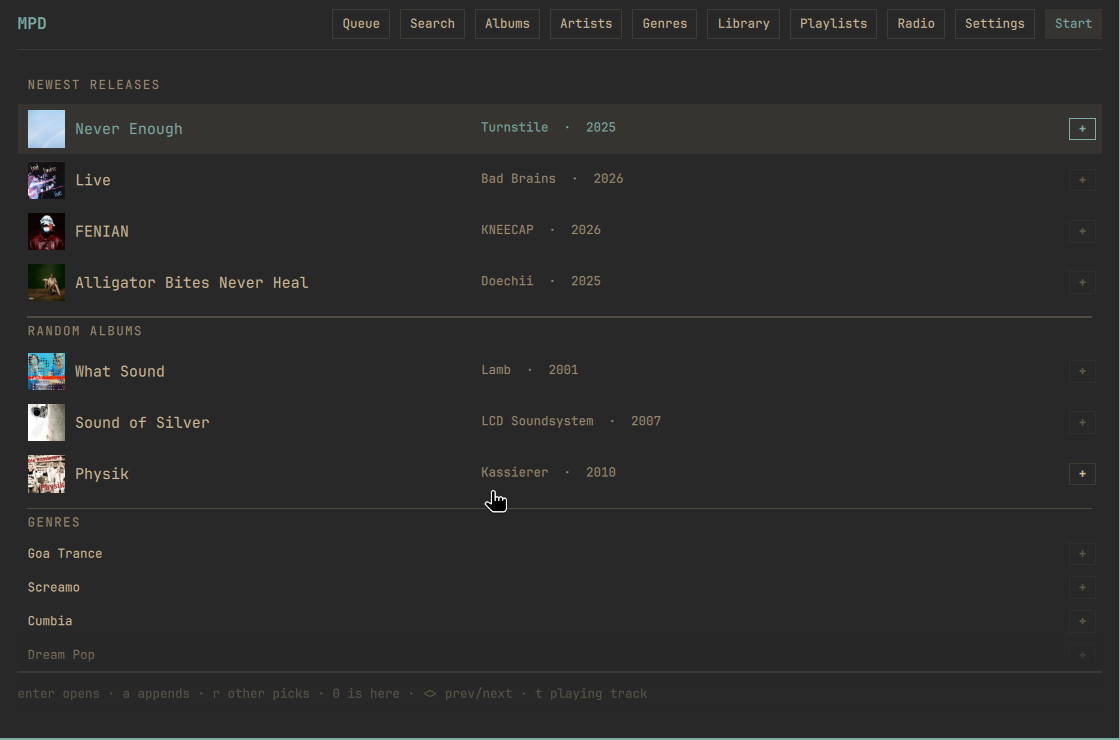
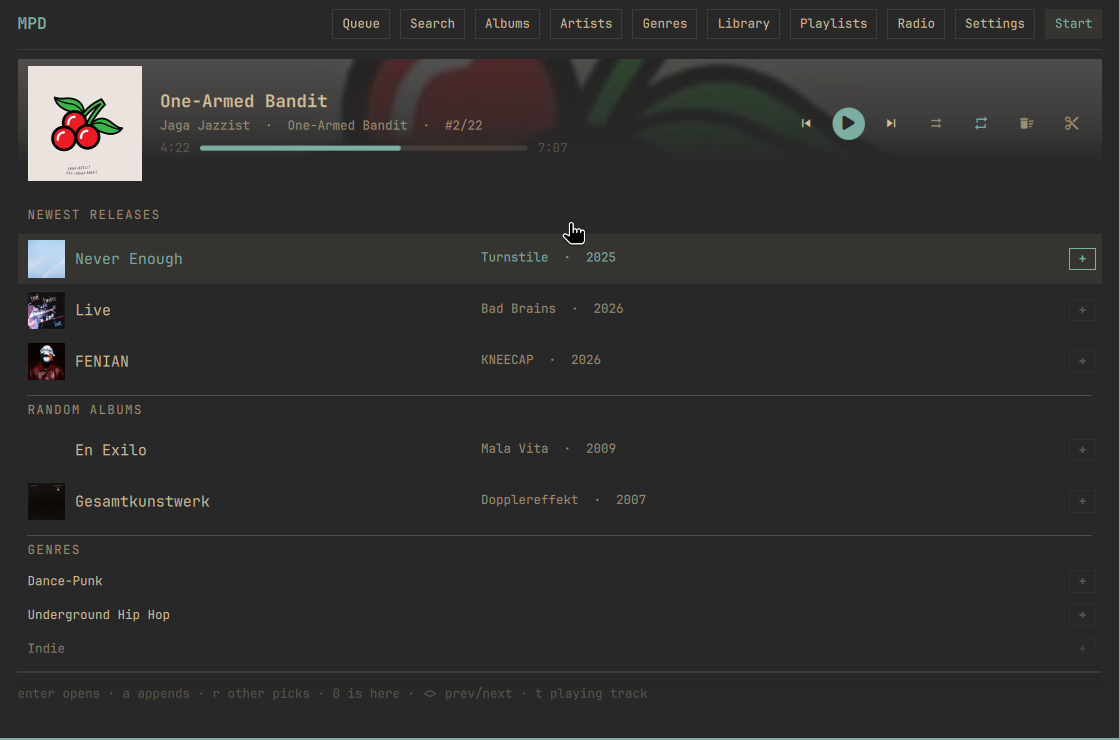
start: three sections that fit under the band
With a track playing the list is about 374 px tall, and four albums plus three
picks plus four genres came to 471 -- the Genres heading was cut in half at the
fold, so the section was announced and never shown. Three albums, two picks and
three genres fit (365 px): 3 + 2 + 3.

The README says it in three lines now (intro, the queue paragraph, the screenshot
caption) and the screenshot is reshot with the current build -- the old one still
showed the alphabet's first genres and a "0000" year.

diff --git a/Panel.qml b/Panel.qml
@@ -699,9 +699,13 @@ Panel {
   // filter on Last-Modified, measured), a few random albums, a few genres. Nothing
   // is stored and nothing is remembered, so the frame is rebuilt on every open, and
   // a section whose answer is empty is left out instead of shown as a dead heading.
-  readonly property int startNewest: 4
-  readonly property int startPicks: 3
-  readonly property int startGenres: 4
+  // Three sizes, not four and three: with the player band in the header the list is
+  // about 374 px tall, and 3 + 2 + 3 sections (87 + 200 + 78) fit inside that. Four
+  // albums, three picks and four genres came to 471 px, which cut the last heading in
+  // half at the fold -- a section that is only announced and never shown reads broken.
+  readonly property int startNewest: 3
+  readonly property int startPicks: 2
+  readonly property int startGenres: 3
 
   function loadStart(gen) {
     var year = (new Date()).getFullYear()

diff --git a/README.md b/README.md
@@ -7,8 +7,8 @@
 ## What it is
 
 A little bar widget for your music: cover + title always visible, a click opens the
-full player — queue, search, your whole library, playlists, and internet radio.
-Mouse-first, keyboard if you want it.
+full player — queue, search, your whole library, playlists, internet radio, and a start
+screen when nothing is queued. Mouse-first, keyboard if you want it.
 
 ## Get it running
 
@@ -46,10 +46,8 @@ The folder name must stay `kokko.mpd` — it's how `shell.json` and the CLI find
 runs along, left click = play/pause, middle click = next, scroll = volume.
 - **On hover** — a card with cover, draggable progress, big transport buttons.
 - **On the wallpaper** (optional) — the same card, sitting on your desktop.
-- **A start screen when nothing is queued** — the panel opens on it instead of an
-empty queue: the newest records in your library (by year), a few random albums, a few
-genres, each with its cover. Nothing is stored, so the picks change every time you open
-it, and `r` reshuffles without leaving the panel.
+- **A start screen when nothing is queued** — newest records, a few random albums, a few
+genres, each with its cover; `r` reshuffles.
 - **The full panel** — queue, search, library, playlists, all in one view.
 - **An album is a track list** — open one and the rows are number, title and
 duration, because the frame already says which album it is; the footer carries
@@ -85,8 +83,7 @@ no seek bar.
 
 [![Search](https://github.com/taschenlampe/kokko.mpd/raw/main/docs/panel-suche.png)](docs/panel-suche.png)
 
-**Start** — what the panel opens on while nothing is queued: the newest records, a few
-random albums, a few genres, covers included.
+**Start** — what an empty queue opens on: newest records, random albums, genres.
 
 [![Start](https://github.com/taschenlampe/kokko.mpd/raw/main/docs/panel-start.png)](docs/panel-start.png)
 
@@ -112,6 +109,9 @@ send a desktop notification).
 1. Press `/` and type (or open the search tab).
 2. Press `+` next to a hit — appends the track, album, or artist.
 3. Press `enter` instead — plays it right away.
+
+**Nothing queued?** The panel opens on **Start**: `enter` opens an album, `a` appends it,
+`r` reshuffles the picks, `0` always brings you back.
 
 That's really all you need. Everything below is for when you want more.
 
